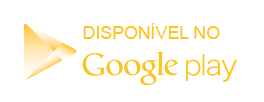
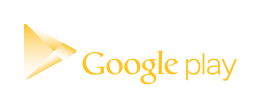
Ajustes Index

diff --git a/public/stylesheets/style.css b/public/stylesheets/style.css
@@ -55,6 +55,19 @@ img {
 	line-height: 56px;
 }
 
+.search {
+    padding: 10px 8px;
+    background: #FFFFFF;
+    border: 2px solid #fecc3f;
+}
+.button {
+    position:relative;
+    padding: 10px 25px;
+    left: -7px;
+    top: 5px;
+    border:2px solid #fecc3f;
+    background:#fecc3f url("../images/ic_search.png") center no-repeat;
+}
 #container {
 	height:1000px;
 	background: #fbc01e; /* Old browsers */
@@ -91,15 +104,22 @@ img {
 	font-size: 46px;
 	margin-top: 320px;
 }
-#gplay {
-	float:right;
+#link-apps {
+    list-style: none;
+	width:1024px;
+	height:100px;
+    float:left;
 	position: relative;
-	top: 875px;
-	right: -260px;
+	top: 290px;
+}
+#link-apps li{
+    display:inline;
+}
+#link-apps li:nth-child(2){
+    margin: 0 100px;
 }
 footer {
 	height:95px;
-	margin-top:150px;
 	background:#FEC31D;
 }
 #center_footer {
@@ -110,7 +130,7 @@ footer {
 #center_footer ul{
 	list-style:none;
 	float:left;
-	margin-top:30px;
+	margin-top:40px;
 }
 #center_footer ul li{
 	display:inline;
@@ -124,9 +144,44 @@ footer {
 #center_footer ul li a:hover{
 	text-decoration:none;
 }
-#uWant {
+#copyright-uWant {
 	float:right;
 	color:#FFF;
 	font-size:20px;
-	margin-top:30px;
+	margin-top:40px;
+}
+
+/**** TELA LOGIN E CADASTRO ****/
+#cadastro {
+    width: 480px;
+    height: 800px;
+    background:#FFFFFF;
+    float:left;
+    border-radius:5px;
+    -webkit-border-radius:5px;
+    -moz-border-radius:5px;
+}
+#cadastro h1{
+    font-size:24px;
+    color:#fecc3f;
+    width:100%;
+    float:left;
+}
+#cadastro img{
+    margin:0 auto;
+}
+#login {
+    width: 480px;
+    height: 800px;
+    background:#FFFFFF;
+    float:right;
+    border-radius:5px;
+    -webkit-border-radius:5px;
+    -moz-border-radius:5px;
+}
+#login h1{
+    font-size:24px;
+    color:#fecc3f;
+    width:100%;
+    float:left;
 }

diff --git a/app/views/main.scala.html b/app/views/main.scala.html
@@ -25,15 +25,10 @@
             </a>
 
             <div id="extras_topo">
-                <form class="navbar-form col-md-3" role="search">
-                    <div class="input-group">
-                        <input type="text" class="form-control" placeholder="@Messages.apply("site.main.search")" name="srch-term" id="srch-term">
-                        <div class="input-group-btn">
-                            <button class="btn btn-default" type="submit"><i class="glyphicon glyphicon-search"></i></button>
-                        </div>
-                    </div>
+                <form>
+                    <input type="text" class="search" placeholder="@Messages.apply("site.main.search")" name="srch-term" id="srch-term" required>
+                    <input type="button" class="button" value="">
                 </form>
-
                 <a href="@controllers.web.routes.AuthenticationController.authorizeView()">@Messages.apply("site.main.join")</a>
             </div>
         </div>
@@ -59,7 +54,7 @@
                 </li>
             </ul>
 
-            <p id="uWant">
+            <p id="copyright-uWant">
                 &copy; 2014 uWant
             </p>
         </div>

diff --git a/app/views/authentication.scala.html b/app/views/authentication.scala.html
@@ -4,12 +4,20 @@
 
 @main(Messages.apply("site.index.title")) {
 <div id="container">
-    @form(action = controllers.web.routes.AuthenticationController.authorize(), 'id -> "form_login") {
-        @CSRF.formField
-    }
+    <div id="cadastro">
+        @form(action = controllers.web.routes.UserController.register(), 'id -> "form_registro") {
+            <!--@CSRF.formField-->
+            <h1>@Messages.apply("authentication.register.title")</h1>
 
-    @form(action = controllers.web.routes.UserController.register(), 'id -> "form_registro") {
-        @CSRF.formField
-    }
+            <img src="@routes.Assets.at("/images/ic_semfoto.png")">
+        }
+    </div>
+
+    <div id="login">
+        @form(action = controllers.web.routes.AuthenticationController.authorize(), 'id -> "form_login") {
+            <h1>@Messages.apply("authentication.login.title")</h1>
+            <!--@CSRF.formField-->
+        }
+    </div>
 </div>
 }

diff --git a/app/views/index.scala.html b/app/views/index.scala.html
@@ -7,9 +7,25 @@
         <div id="slogan">
             @Messages.apply("site.index.slogan")
         </div>
-        <a href="#">
-            <img src="@routes.Assets.at("/images/img_gplay.png")" id="gplay" title="Baixe agora!">
-        </a>
+
+        <ul id="link-apps">
+            <li>
+                <a href="#">
+                    <img src="@routes.Assets.at("/images/img_apple.png")" title="Baixe agora!">
+                </a>
+            </li>
+            <li>
+                <a href="#">
+                    <img src="@routes.Assets.at("/images/img_windows.png")" title="Baixe agora!">
+                </a>
+            </li>
+            <li>
+                <a href="#">
+                    <img src="@routes.Assets.at("/images/img_gplay.png")" title="Baixe agora!">
+                </a>
+            </li>
+        </ul>
+
     </div>
 </div>
 }
